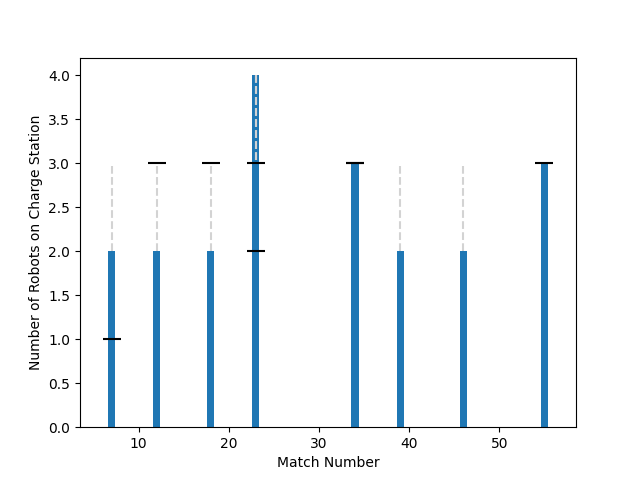
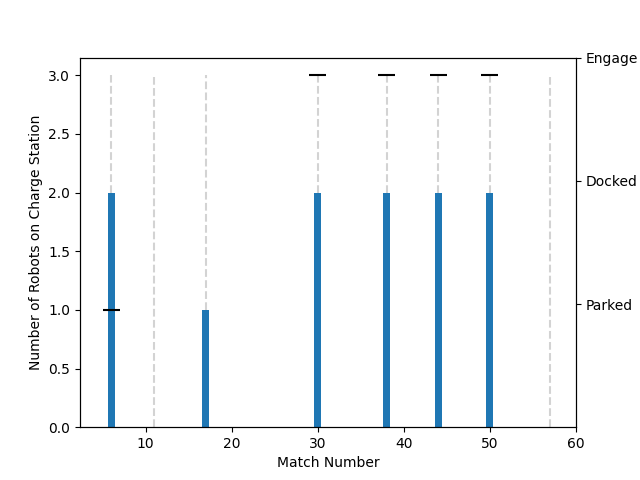
commit name

diff --git a/Scouting Printer.py b/Scouting Printer.py
@@ -144,6 +144,16 @@ for status in list(data[data['Team Number'] == team_number]['Tele Charge Station
 plt.bar(MatchesPlayed, teams_on_station)
 plt.xlabel('Match Number')
 plt.ylabel('Number of Robots on Charge Station')
+
+# new y label on other side
+ax2 = plt.twinx()
+ax2.set_ylabel('Charge Station Status')
+plt.yticks([1, 2, 3], ['Parked', 'Docked', 'Engage'])
+
+#extend image to the right
+
+
+
 plt.savefig('teleop_parked_docked_engaged.png')
 plt.close()
 
@@ -179,7 +189,7 @@ html = f'''
     <img src="{path}/scorevmatch.png" alt="Score vs Match">
     <br>
 
-    <h1>Auto"</h1>
+    <h1>Auto</h1>
     <img src="{path}/auto_scorevmatch.png" alt="Auto Score vs Match">
      <div class="row">
         <div class="col-sm-4">
@@ -223,7 +233,7 @@ html = f'''
         <p>{comments_str}</p>
     </div>
 </div>
-
+<br>
 </body>
 </html>
 
